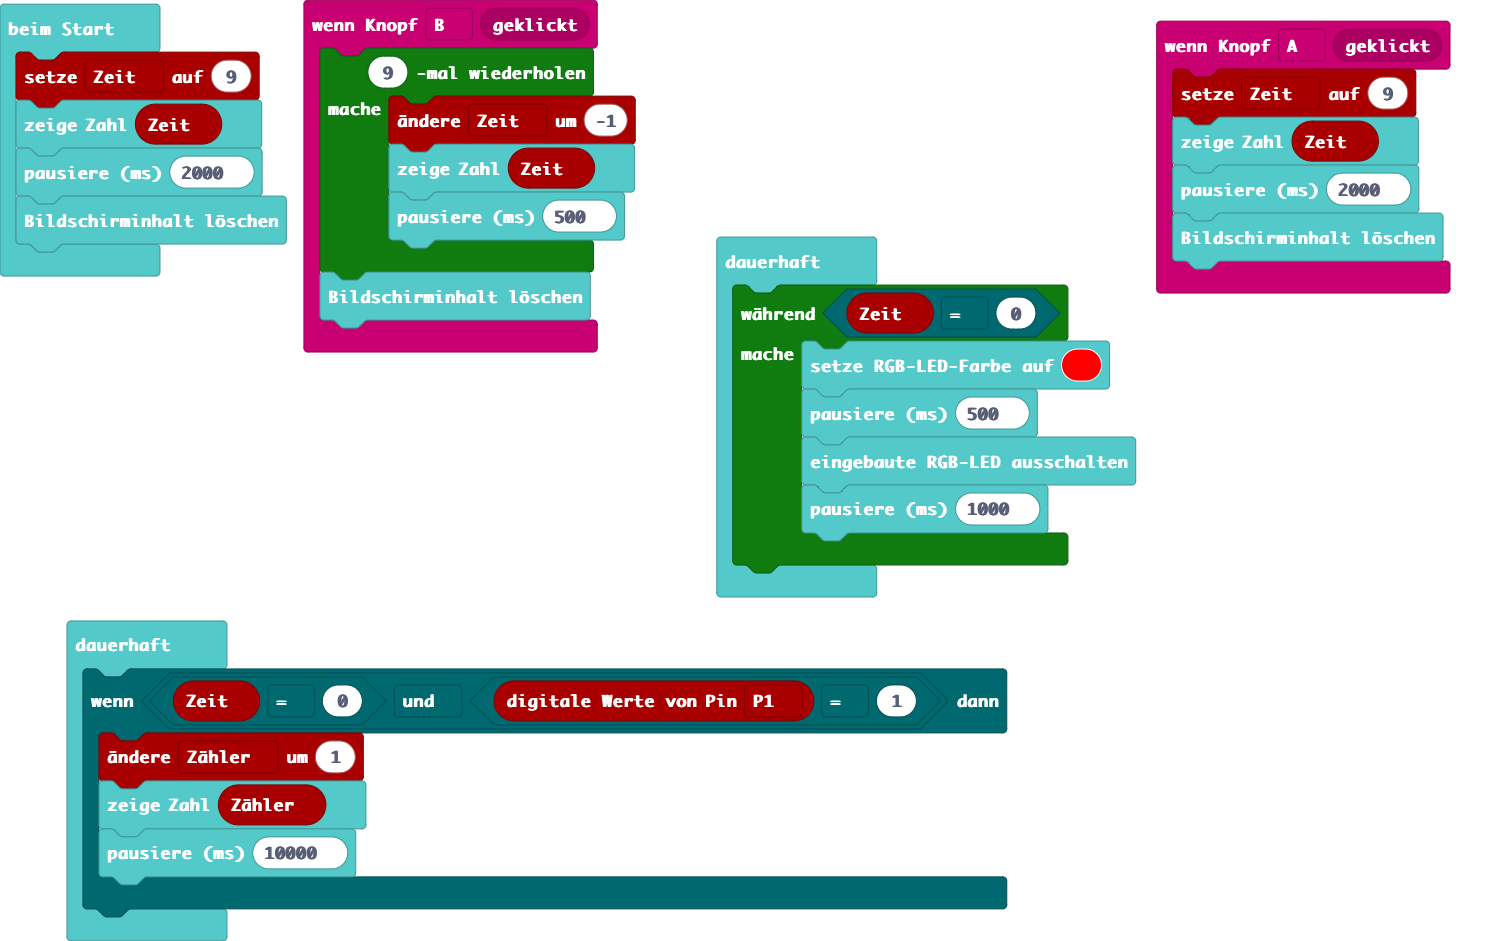
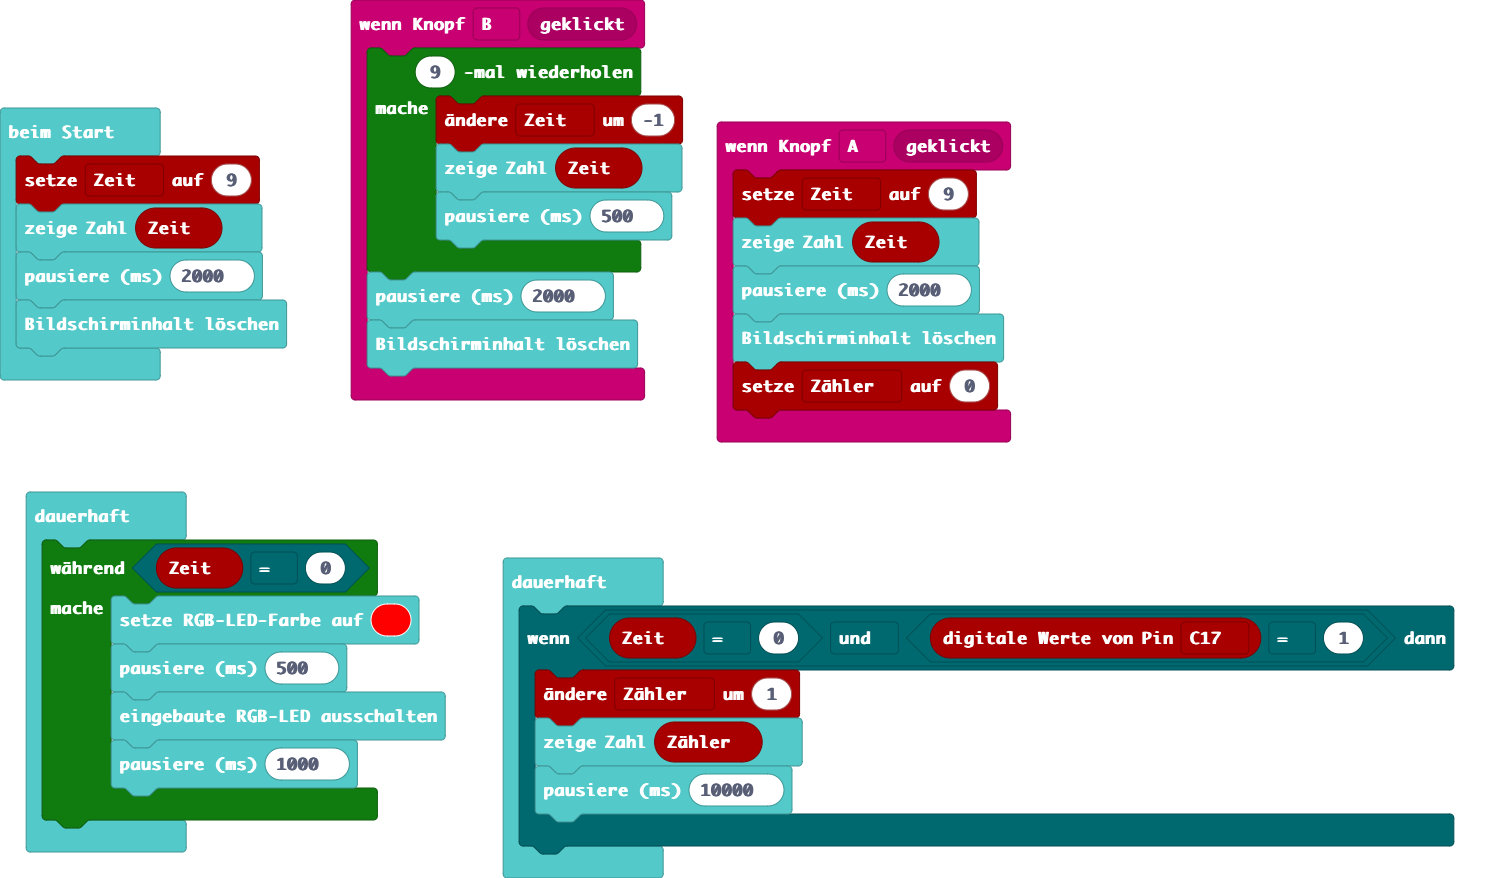
Aktualisiere pxt.json, main.blocks, main.ts, main.py

diff --git a/main.ts b/main.ts
@@ -3,6 +3,7 @@ input.onButtonEvent(Button.A, input.buttonEventClick(), function () {
     basic.showNumber(Zeit)
     basic.pause(2000)
     basic.clearScreen()
+    Zähler = 0
 })
 input.onButtonEvent(Button.B, input.buttonEventClick(), function () {
     for (let index = 0; index < 9; index++) {
@@ -10,6 +11,7 @@ input.onButtonEvent(Button.B, input.buttonEventClick(), function () {
         basic.showNumber(Zeit)
         basic.pause(500)
     }
+    basic.pause(2000)
     basic.clearScreen()
 })
 let Zähler = 0
@@ -27,7 +29,7 @@ basic.forever(function () {
     }
 })
 basic.forever(function () {
-    if (Zeit == 0 && pins.digitalReadPin(DigitalPin.P1) == 1) {
+    if (Zeit == 0 && pins.digitalReadPin(DigitalPin.C17) == 1) {
         Zähler += 1
         basic.showNumber(Zähler)
         basic.pause(10000)

diff --git a/main.py b/main.py
@@ -1,0 +1,40 @@
+def on_button_a():
+    global Zeit
+    Zeit = 9
+    basic.show_number(Zeit)
+    basic.pause(2000)
+    basic.clear_screen()
+input.on_button_event(Button.A, input.button_event_click(), on_button_a)
+
+def on_button_b():
+    global Zeit
+    for index in range(9):
+        Zeit += -1
+        basic.show_number(Zeit)
+        basic.pause(500)
+    basic.pause(2000)
+    basic.clear_screen()
+input.on_button_event(Button.B, input.button_event_click(), on_button_b)
+
+Zähler = 0
+Zeit = 0
+Zeit = 9
+basic.show_number(Zeit)
+basic.pause(2000)
+basic.clear_screen()
+
+def on_forever():
+    while Zeit == 0:
+        basic.set_led_color(0xff0000)
+        basic.pause(500)
+        basic.turn_rgb_led_off()
+        basic.pause(1000)
+basic.forever(on_forever)
+
+def on_forever2():
+    global Zähler
+    if Zeit == 0 and pins.digital_read_pin(DigitalPin.P1) == 1:
+        Zähler += 1
+        basic.show_number(Zähler)
+        basic.pause(10000)
+basic.forever(on_forever2)
